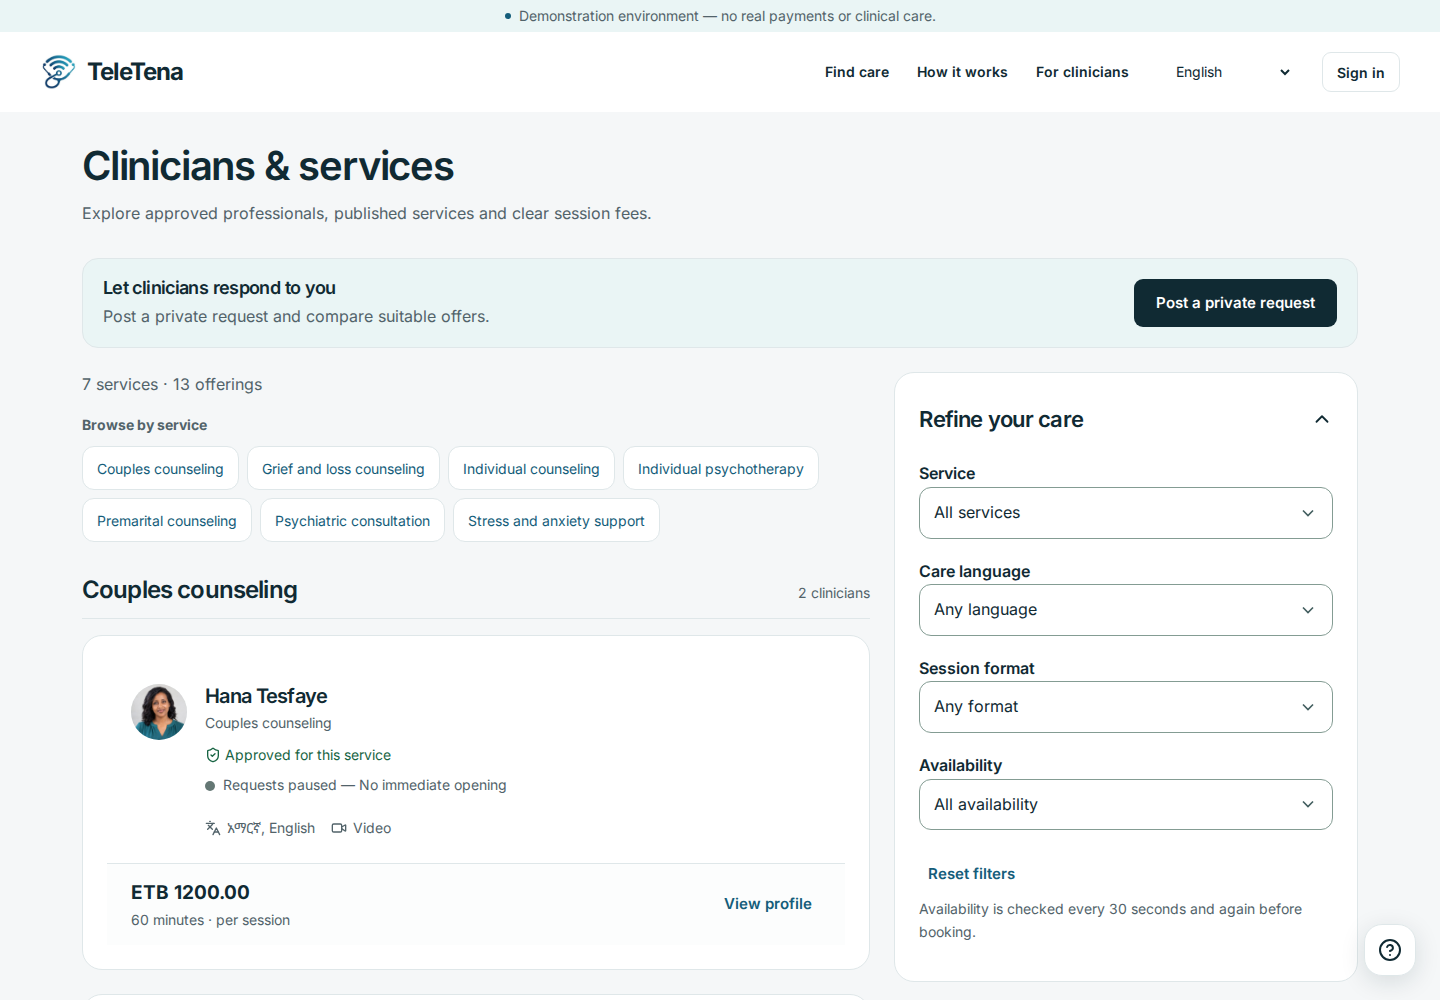
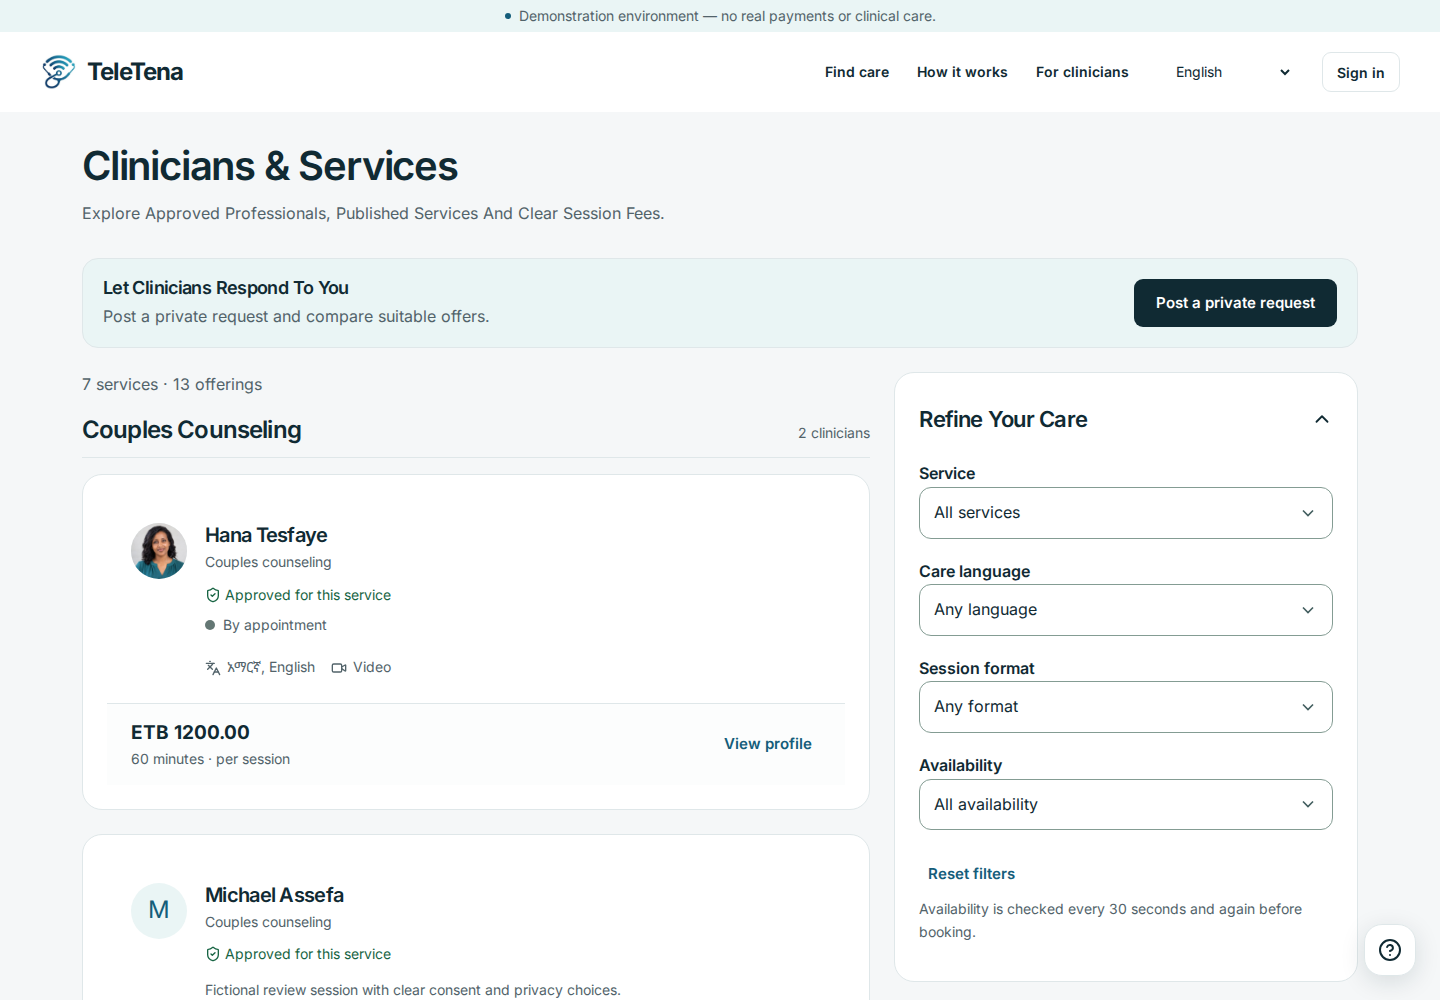
test: verify notification privacy delivery and browser journeys

diff --git a/docs/patient-notifications-verification-2026-10-19.md b/docs/patient-notifications-verification-2026-10-19.md
@@ -1,0 +1,56 @@
+# Patient Notifications and Booking Follow-up — 19 October 2026
+
+Current runtime and packaged source: `31a77c14c12a74c9b4e4632dad8cac988601836c`.
+Later evidence/test-only commits do not change runtime assets. Branch `feat/guest-first-mvp`, draft PR #47, dependent on PR #46. No merge, reseed or remote deployment.
+
+Preview: http://127.0.0.1:8017/teletena/ · site `teletena-mvp-presentation.localhost` · Bench `/home/frappe/frappe/frappe-bench` (Frappe15/Python3.12). Exact separate backend compatibility environment: Frappe16.2.1, ERPNext16.1.0, Python3.14.2, `/home/frappe/teletena-compat/bench`. Node24.13.0 production build. The original source/branches, provider settings and passwords are preserved.
+
+## Behavior and Policy
+
+- One patient bell replaces the navbar Appointment Updates dropdown, including the signed-in public directory. All/Unread, neutral event titles, useful links, durable owner-only read state, retry/empty states, Escape and focus return. Appointment-specific delivery history remains on Appointments.
+- Events cover booking decisions, cancellation/expiry, upcoming reminders, call-ended/completion, explicitly shared summary/follow-up and account changes. Internal SystemUpdate events use an allowlisted neutral template; there is no public broadcast endpoint. Historical clinical records are not backfilled into notifications.
+- Booking messages use verified contacts and existing private SMS/SMTP adapters, site flags, caps and explicit saved preferences. With no saved preference, operational email/SMS default on; existing opt-outs are preserved. Payer receipts require a real reservation journal and explicitly identify demonstration funds, not external payment collection. Cancellation/expiry receipt wording checks a real release journal.
+- New manual-confirmation policy snapshots record a 180-second reminder threshold and a deadline from configured confirmation hours (default24, bounded1–168), capped at scheduled start. One email follow-up is queued after three minutes. Minute scheduling/provider availability means it is not an exact wall-clock delivery promise. No response follows the existing expiry/full reservation release, not a new financial penalty. Old accepted policies/deadlines are unchanged and excluded before batching.
+- A separate 90-day/minimum-five-sample Booking Confirmation Response metric counts only actual presented, resolved prompts. A prompt can be acknowledged by the treating clinician's details view, read action, or explicit decision. Responsible decline counts; an unseen expiry is excluded. It does not change clinical competency, ratings, or ranking and is not evidence of provider delivery or human attention merely from enqueueing.
+- Stable event keys, existing unique outbox keys, the booking gate and row locks serialize decisions/reminders. Durable Sending claims precede provider I/O. Unknown outcomes are not automatically retried. No clinical text appears in notification bodies or external messages. Couples notices resolve only recipient IDs belonging to independently consenting adults; private notes produce no summary notice.
+- Browse by service shortcut navigation removed; service-grouped cards and dynamic filters remain. Shared headings, subtitles and section summaries display owner-requested Title Case without changing stored clinical text, technical enum values, or translation keys.
+
+## Verification Actually Run
+
+Private logs: `/home/frappe/teletena-guest-first/`; no passwords/tokens/provider bodies in reports.
+
+| Check | Result / evidence |
+|---|---|
+| Complete native backup before v1.42 | DB, public/private archives and config verified; private `before-v142-notifications` |
+| Main and F16 existing-site migration; repeat migration | Pass. Empty additive inbox/observation tables; no financial schema or historical backfill |
+| Prior fresh-install site's v1.42 migration | Pass; this is an upgrade of the previously fresh site, not a newly performed v1.42 fresh installation |
+| `tests/notifications.py` | 10 pass; owner denial/read, consented recipients, receipt channels/cap, explicit retry, Unknown single claim, reminder/decision/expiry idempotency, measured sample threshold |
+| `tests/guest_first.py` | 15 pass; real backend public/private separation, disclosure/file permissions, booking intents and outbox |
+| `tests/couples.py` | 12 pass; persisted participant/recipient consent, reschedule/extensions, one charge/earning; new recipient-notification assertions |
+| Five relevant Presentation regressions | Pass: manual confirmation/cancel/expiry, room-closure/draft/finalize retries, note privacy/revisions, encounter disclosure and cancellation anonymity |
+| Actual isolated scheduler/worker | Automatically enqueued/executed process_reminders and dispatch, default/short/long subscriptions, private Redis16480. One follow-up attempt ProviderAccepted using private transport, delivered=false. Controlled observation age181sec; server clock and accepted deadline unchanged. Repeated decline yields one booking journal and one release. Test preferences/schedule restored; owned test processes stopped |
+| Real F16 browser notification pane | Pass read persistence after reload, 390/768/1440, Escape/focus, appointment-only delivery area, directory bell |
+| Real separate patient/clinician offer browser | Pass actual acceptance → one cross-page popup → persisted read → authorized consultation link. General notices never trigger false accepted-offer popups |
+| Main built browser | Pass patient bell/empty pane, Appointments delivery panel, public directory, removed shortcuts; 390/768/1440 |
+| Actual Chromium200% | Pass; outer1440, inner720, DPR2, visualViewport.scale1. Pane reachable/scrollable, no horizontal overflow, Escape/focus; sign-out200 then authenticated identity/private inbox denied |
+| Build / TypeScript / lint | Production build pass at exact source above; lint passes with warnings, no errors. Existing warning debt remains (including hooks/render purity); not represented as zero warnings |
+| Main financial reconciliation | 11 patient owners /8 clinician owners, all journals balanced, no repairs. Isolated site:16 patient /6 clinician owners, all balanced |
+| Preservation | Original24 private manifests/provider/key files byte-identical; semantic site config identical. No access-switch/provider credential changes |
+
+Tests that assumed an empty environment were corrected to measure baseline deltas and the relevant owner's/appointment's records. Existing scheduler-created records were retained. The isolated browser404 was a test Gunicorn launch importing the original repository from its initial working directory; launching from the actual compatibility sites directory fixed the mismatch. Acceptance test was corrected to complete the real disclosure/price dialog and select its exact appointment among historical notifications. Logout checks use authenticated-endpoint denial, since Guest cannot call Frappe's authenticated identity endpoint. These were harness fixes, not weakened production guards.
+
+## Rendered Evidence and Comparison
+
+`docs/screenshots/patient-notifications/`: pane1440/768/390, actual200%, Appointments and directory; `disposable-read/` populated private inbox; `disposable-accepted-popup.png` retained clinician popup. Images were opened and inspected: compact unread cards, clear date/actions, readable mobile wrapping, reachable close controls and scrollable populated list. Empty and populated panes use the established shared dialog/button/bell system. Reference H04 governs notification preferences; C02 directory cards and previous paired directory evidence remain applicable. The newly requested universal inbox has no exact static reference screen; this is a documented minimal operational extension, not a claim of pixel identity. Title Case is the owner's explicit updated direction. Accepted call layout and LiveKit security code are unchanged.
+
+Owner visual acceptance remains pending. Live consenting SMS/email delivery, physical-device calling and native Amharic/Afaan Oromo review were not performed. ProviderAccepted is never labeled delivered. Hosted LiveKit End/revocation evidence is reused because those modules did not change; no expensive hosted rerun was claimed.
+
+## Review Walkthrough
+
+1. Open the preview as a patient. Use the bell, All/Unread and Escape; Appointments holds booking delivery history.
+2. Make a new booking on the isolated test configuration. Automatic confirmation yields confirmation/reservation messages; manual confirmation yields pending messages and an explicit deadline.
+3. Present the pending booking as the clinician. After the three-minute threshold, the scheduler queues one follow-up email. Confirm/decline stops further reminders; expiry retains the accepted policy and releases the reservation once.
+4. Finalize an encounter with private notes and optional selected shared recipients. Only consented selected recipients receive neutral update notices; notes never appear in the pane.
+5. Confirm the directory still groups cards by service without the shortcut section, and shared headings use Title Case.
+
+Keep draft PR #47 unmerged. The local preview-owned web/worker/scheduler remain running on queue13917. Temporary F16 browser server8029 and test routing/reminder processes are stopped after verification. Selfmade/shared dependency repair/Amazon patch are untouched.

diff --git a/docs/product-contract.md b/docs/product-contract.md
@@ -457,3 +457,11 @@ headings with service shortcuts. Filters remain server-enforced; each offering k
 its own scope, clinician, price, format and booking reference. Display grouping does
 not merge catalog definitions or grant additional authorization. Guest cards retain
 View profile, with Sign in to Book inside the profile; patients keep direct scheduling.
+
+## Booking Notifications — 19 October Follow-up
+
+Patients use one neutral notification bell for appointment, follow-up, account and system events; appointment delivery history remains on Appointments. Authorization is rechecked on fetch/read/link access, including individual couples consent. Private note content never enters notifications.
+
+New booking policy version `booking-notices-v2` records a 180-second clinician reminder threshold and an explicit confirmation deadline (configured hours, capped at start). One follow-up email is queued after that threshold; minute scheduling and provider availability determine actual sending. Existing bookings retain their accepted policy. Expiry releases the demonstration reservation once under the existing cancellation rules; no new penalty or external refund is implied.
+
+Email/SMS operational booking preferences default on only when no saved choice exists; explicit opt-outs remain honored, with verified contacts, site/provider gates and send caps. Reservation receipts identify demonstration funds. ProviderAccepted is not delivery. The 90-day, minimum-five presented-booking-prompt response metric is separate from clinical competency and patient experience; responsible declines count, unseen expiries do not.

diff --git a/docs/architecture.md b/docs/architecture.md
@@ -287,3 +287,9 @@ short leases and recompute current eligibility/capacity. Schedule hours use the 
 engine's timezone/rule/exception projection. No background process advertises a clinician
 without an active reachable workspace. Dashboard visibility is separate from the shell's
 headless heartbeat; notifications and appointment authorization are unchanged.
+
+## v1.42 Neutral Notification Inbox
+
+Empty additive `tt_user_notification` and `tt_confirmation_observation` tables preserve durable owner/read state and actual booking-prompt observations. They are not publicly exposed DocTypes. Custom endpoints authorize the owner and current encounter membership; recipient-specific publication resolves participant row IDs only within the consented encounter. Stable lifecycle/event keys and existing booking-outbox unique keys make retries idempotent.
+
+Minute cron queues reminders through the existing provider outbox; booking gate and row locks serialize reminders against decisions. Durable Sending claims precede network I/O; uncertain outcomes are not automatically retried. SQL batching excludes legacy policy rows before limiting so they cannot starve current reminders. Existing LiveKit End/revocation implementation is unchanged; ended-call notices reconcile without mutating room security transactions.

diff --git a/docs/mvp-delivery-tracker.md b/docs/mvp-delivery-tracker.md
@@ -909,3 +909,5 @@ Native-language approval and live delivery remain external, not claimed.
   shortcut links and clinician counts; real-backend guest/patient filters, previews
   and scheduling handoff verified. Screenshots/current packaged identity recorded
   in the existing acceptance matrix and current19 October verification report.
+
+- 19 October notification follow-up: patient universal bell/read persistence; Appointments-only delivery history; SMS/email reservation and booking messages; one three-minute manual-confirmation email reminder; recorded expiry/release; separate presented-prompt responsiveness metric; Title Case headings; directory shortcuts removed. See patient-notifications-verification-2026-10-19.md and the existing screen matrix. Real-backend tests and isolated automatic scheduler/private-transport processing verified; live delivery and owner acceptance remain external. No historical financial/policy backfill, reseed or remote deployment.

diff --git a/docs/automatic-request-availability-verification-2026-10-19.md b/docs/automatic-request-availability-verification-2026-10-19.md
@@ -1,6 +1,6 @@
 # Connected schedule availability follow-up — 19 October 2026
 
-Latest packaged frontend: `f5e52b350fd53857f1d94c6864fe0e20d1d5c6b8`; service-grouping follow-up below. Backend behavior remains identical to the earlier verified checkpoint.
+Current packaged frontend/backend: `31a77c14c12a74c9b4e4632dad8cac988601836c`. The notification follow-up is documented in [patient-notifications-verification-2026-10-19.md](patient-notifications-verification-2026-10-19.md). Earlier identities and unchanged-behavior statements below describe their dated checkpoints, not this candidate.
 
 Schedule-presence verification checkpoint: `624b013b3aa41017107e0fd6cd551805834deea3` on
 `feat/guest-first-mvp`, draft PR #47, dependent on PR #46. Subsequent evidence/test-only
